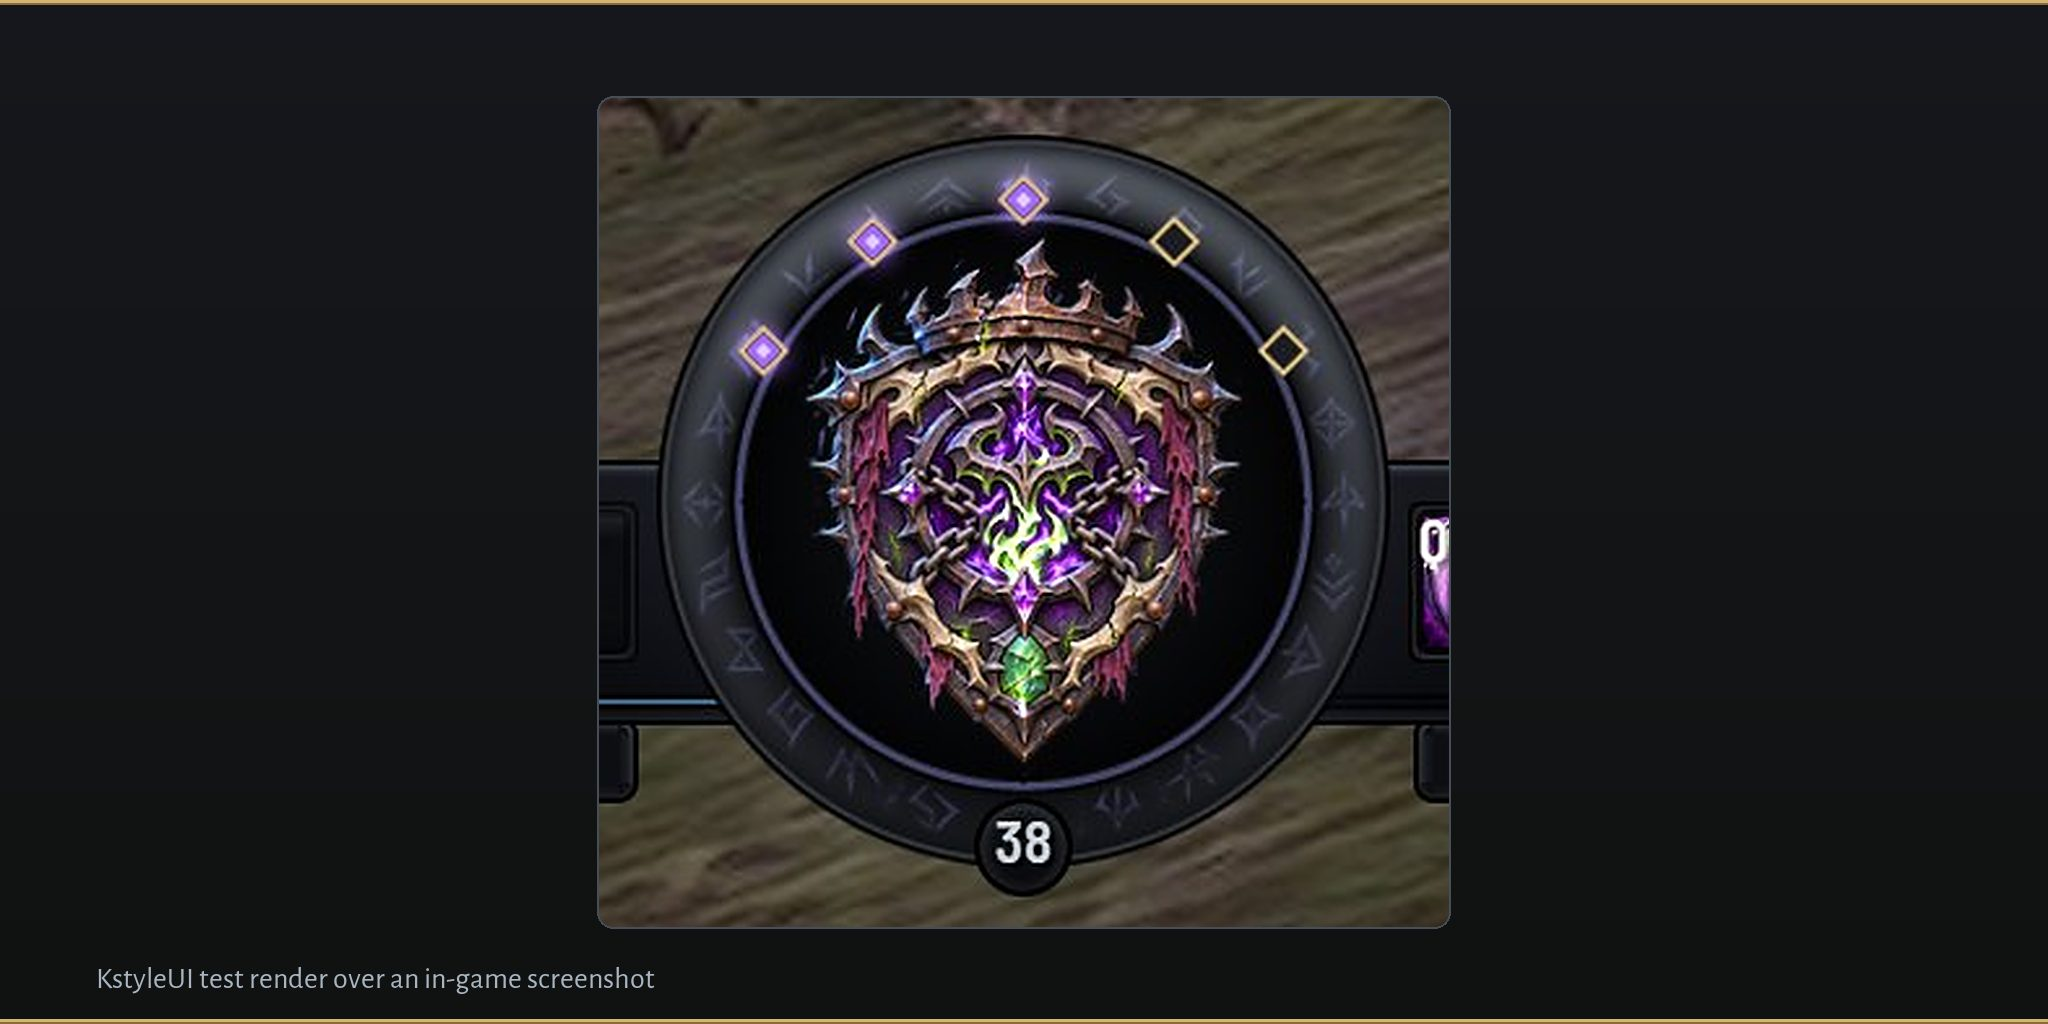
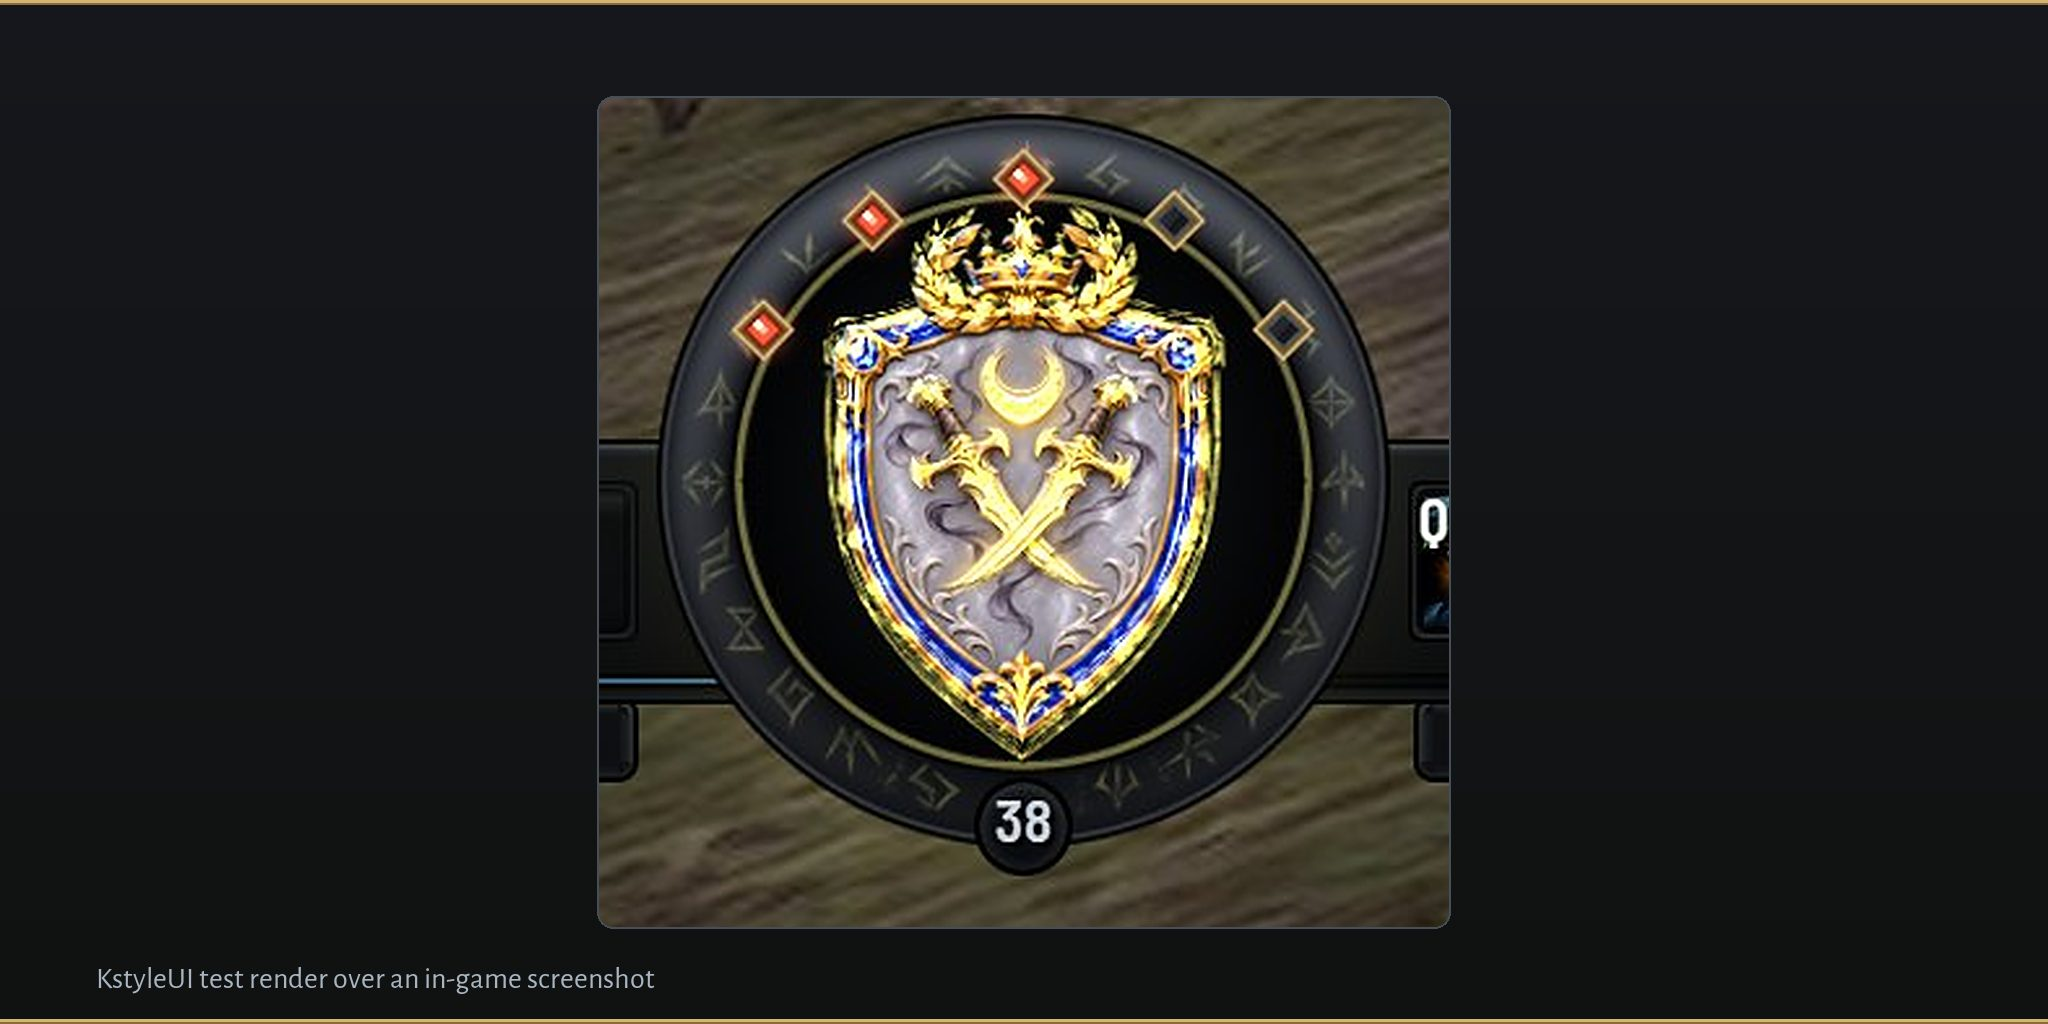
docs(store): rogue crest in the marketing crops
Forever has no soul shards, so the crest and dock crops now render a rogue
with three of five combo points lit, over the same real forest plate, at the
same sizes and file names. The crest crop moves down 8 px so the combo pip
row above the hub is not clipped at its edge.

diff --git a/Tools/render/readme.py b/Tools/render/readme.py
@@ -15,7 +15,7 @@ The pictures:
   ultrawide_centred, ultrawide_spread  the Healer layout on 5120x1440 in each ultrawide arrangement
   crop_*                               close crops of the 1080 HUD drawn at twice the density: the orbs and tray, the
                                        unit frames, the right rail, the group meter,
-                                       and the nameplate scene; a warlock's Medallions crest jewels and forged data
+                                       and the nameplate scene; a rogue's Medallions crest jewels and forged data
                                        dock; a world map road and flight route
   frame_*                              frames cut directly from the gallery scenes
 
@@ -68,7 +68,7 @@ for _arrangement in ("centred", "spread"):
 RENDERS["meter_party"] = ("hud_reference", 2.0, dict(HD, **dict(style_env("Frames"), RENDER_METER_GROUP="party")), "--strict")
 RENDERS["meter_both_2x"] = ("hud_reference", 2.0, dict(HD, **dict(style_env("Frames"), RENDER_METER_GROUP="party", RENDER_METER_CHOICE="both")), "--strict")
 RENDERS["plates"] = ("nameplate_bible", 2.0, {"RENDER_COMBAT": "1"}, "--strict")
-RENDERS["warlock_1080_2x"] = ("hud_warlock_mac", 2.0, dict(HD, **style_env("Medallions")), "--strict")
+RENDERS["rogue_1080_2x"] = ("hud_rogue_mac", 2.0, dict(HD, **style_env("Medallions")), "--strict")
 RENDERS["route_flight"] = ("worldmap_roads", 2.0, dict(HD, RENDER_MAP_TRIP="flight"), "--strict")
 
 GALLERIES = ("gallery_setup", "gallery_groupframes", "gallery_skins_character")
@@ -86,8 +86,8 @@ IMAGES = [
     ("crop_meter", "render:meter_party", "470x330+3340+1825", 540),
     ("crop_meters_both", "render:meter_both_2x", "980x330+2830+1825", 1120),
     ("crop_rail", "render:frames_1080_2x", "1100x1040+2720+20", 660),
-    ("crop_crest", "render:warlock_1080_2x", "328x320+1756+1822", 540),
-    ("crop_dock", "render:warlock_1080_2x", "1960x420+940+1740", 1400),
+    ("crop_crest", "render:rogue_1080_2x", "328x320+1756+1830", 540),
+    ("crop_dock", "render:rogue_1080_2x", "1960x420+940+1740", 1400),
     ("crop_route", "render:route_flight", "1385x968+900+640", 1000),
     ("ultrawide_centred", "render:healer_centred", None, 1600),
     ("ultrawide_spread", "render:healer_spread", None, 1600),

diff --git a/docs/store/curseforge.md b/docs/store/curseforge.md
@@ -122,9 +122,9 @@ Your first two action bars sit in recessed sockets on one dark slab: twelve butt
 
 Rogues and cat-form druids see their combo points on the crest itself, as cut jewels round the top of the ring (**Options, Action Bars, Crest resource jewels**). A jewel flares when you gain a point and drains when you spend one, and at the maximum the whole ring glows (**Glow at max**). Hunters with Summon Hawk get hawk perches on the ring, each hawk with a green timer for its time left (**Hawk perches**).
 
-![KstyleUI test render over an in-game screenshot of the Medallions crest: three resource jewels lit on the ring, two still dark](https://raw.githubusercontent.com/korallis/KstyleUI/main/docs/media/marketing/show_crop_crest.jpg)
+![KstyleUI test render over an in-game screenshot of the Medallions crest: a rogue's three combo points lit as red jewels on the ring, two still dark](https://raw.githubusercontent.com/korallis/KstyleUI/main/docs/media/marketing/show_crop_crest.jpg)
 
-*KstyleUI test render over an in-game screenshot: three of five jewels lit on the crest. Icons in this picture are the optional AI-made icon pack, not art shipped in the addon.*
+*KstyleUI test render over an in-game screenshot: three of five combo points lit on the crest. Icons in this picture are the optional AI-made icon pack, not art shipped in the addon.*
 
 Under the slab, your data bar docks on forged plates: the clock on one side; frame rate, latency, gold and experience on the other, each in its own segment with an icon and gilt dividers.
 

diff --git a/docs/store/wago.md b/docs/store/wago.md
@@ -109,9 +109,9 @@ Your first two action bars sit in recessed sockets on one dark slab: twelve butt
 
 Rogues and cat-form druids see their combo points on the crest itself, as cut jewels round the top of the ring (**Options, Action Bars, Crest resource jewels**). A jewel flares when you gain a point and drains when you spend one, and at the maximum the whole ring glows (**Glow at max**). Hunters with Summon Hawk get hawk perches on the ring, each hawk with a green timer for its time left (**Hawk perches**).
 
-![KstyleUI test render over an in-game screenshot of the Medallions crest: three resource jewels lit on the ring, two still dark](https://raw.githubusercontent.com/korallis/KstyleUI/main/docs/media/marketing/show_crop_crest.jpg)
+![KstyleUI test render over an in-game screenshot of the Medallions crest: a rogue's three combo points lit as red jewels on the ring, two still dark](https://raw.githubusercontent.com/korallis/KstyleUI/main/docs/media/marketing/show_crop_crest.jpg)
 
-*KstyleUI test render over an in-game screenshot: three of five jewels lit on the crest. Icons in this picture are the optional AI-made icon pack, not art shipped in the addon.*
+*KstyleUI test render over an in-game screenshot: three of five combo points lit on the crest. Icons in this picture are the optional AI-made icon pack, not art shipped in the addon.*
 
 Under the slab, your data bar docks on forged plates: the clock on one side; frame rate, latency, gold and experience on the other, each in its own segment with an icon and gilt dividers.
 

diff --git a/README.md b/README.md
@@ -92,9 +92,9 @@ Your first two action bars sit in recessed sockets on one dark slab: twelve butt
 
 Rogues and cat-form druids see their combo points on the crest itself, as cut jewels round the top of the ring (**Options, Action Bars, Crest resource jewels**). A jewel flares when you gain a point and drains when you spend one, and at the maximum the whole ring glows (**Glow at max**). Hunters with Summon Hawk get hawk perches on the ring, each hawk with a green timer for its time left (**Hawk perches**).
 
-![KstyleUI test render over an in-game screenshot of the Medallions crest: three resource jewels lit on the ring, two still dark](https://raw.githubusercontent.com/korallis/KstyleUI/main/docs/media/marketing/show_crop_crest.jpg)
+![KstyleUI test render over an in-game screenshot of the Medallions crest: a rogue's three combo points lit as red jewels on the ring, two still dark](https://raw.githubusercontent.com/korallis/KstyleUI/main/docs/media/marketing/show_crop_crest.jpg)
 
-*KstyleUI test render over an in-game screenshot: three of five jewels lit on the crest. Icons in this picture are the optional AI-made icon pack, not art shipped in the addon.*
+*KstyleUI test render over an in-game screenshot: three of five combo points lit on the crest. Icons in this picture are the optional AI-made icon pack, not art shipped in the addon.*
 
 Under the slab, your data bar docks on forged plates: the clock on one side; frame rate, latency, gold and experience on the other, each in its own segment with an icon and gilt dividers.
 

diff --git a/docs/store/description.md b/docs/store/description.md
@@ -86,9 +86,9 @@ Your first two action bars sit in recessed sockets on one dark slab: twelve butt
 
 Rogues and cat-form druids see their combo points on the crest itself, as cut jewels round the top of the ring (**Options, Action Bars, Crest resource jewels**). A jewel flares when you gain a point and drains when you spend one, and at the maximum the whole ring glows (**Glow at max**). Hunters with Summon Hawk get hawk perches on the ring, each hawk with a green timer for its time left (**Hawk perches**).
 
-![KstyleUI test render over an in-game screenshot of the Medallions crest: three resource jewels lit on the ring, two still dark](https://raw.githubusercontent.com/korallis/KstyleUI/main/docs/media/marketing/show_crop_crest.jpg)
+![KstyleUI test render over an in-game screenshot of the Medallions crest: a rogue's three combo points lit as red jewels on the ring, two still dark](https://raw.githubusercontent.com/korallis/KstyleUI/main/docs/media/marketing/show_crop_crest.jpg)
 
-*KstyleUI test render over an in-game screenshot: three of five jewels lit on the crest. Icons in this picture are the optional AI-made icon pack, not art shipped in the addon.*
+*KstyleUI test render over an in-game screenshot: three of five combo points lit on the crest. Icons in this picture are the optional AI-made icon pack, not art shipped in the addon.*
 
 Under the slab, your data bar docks on forged plates: the clock on one side; frame rate, latency, gold and experience on the other, each in its own segment with an icon and gilt dividers.
 
